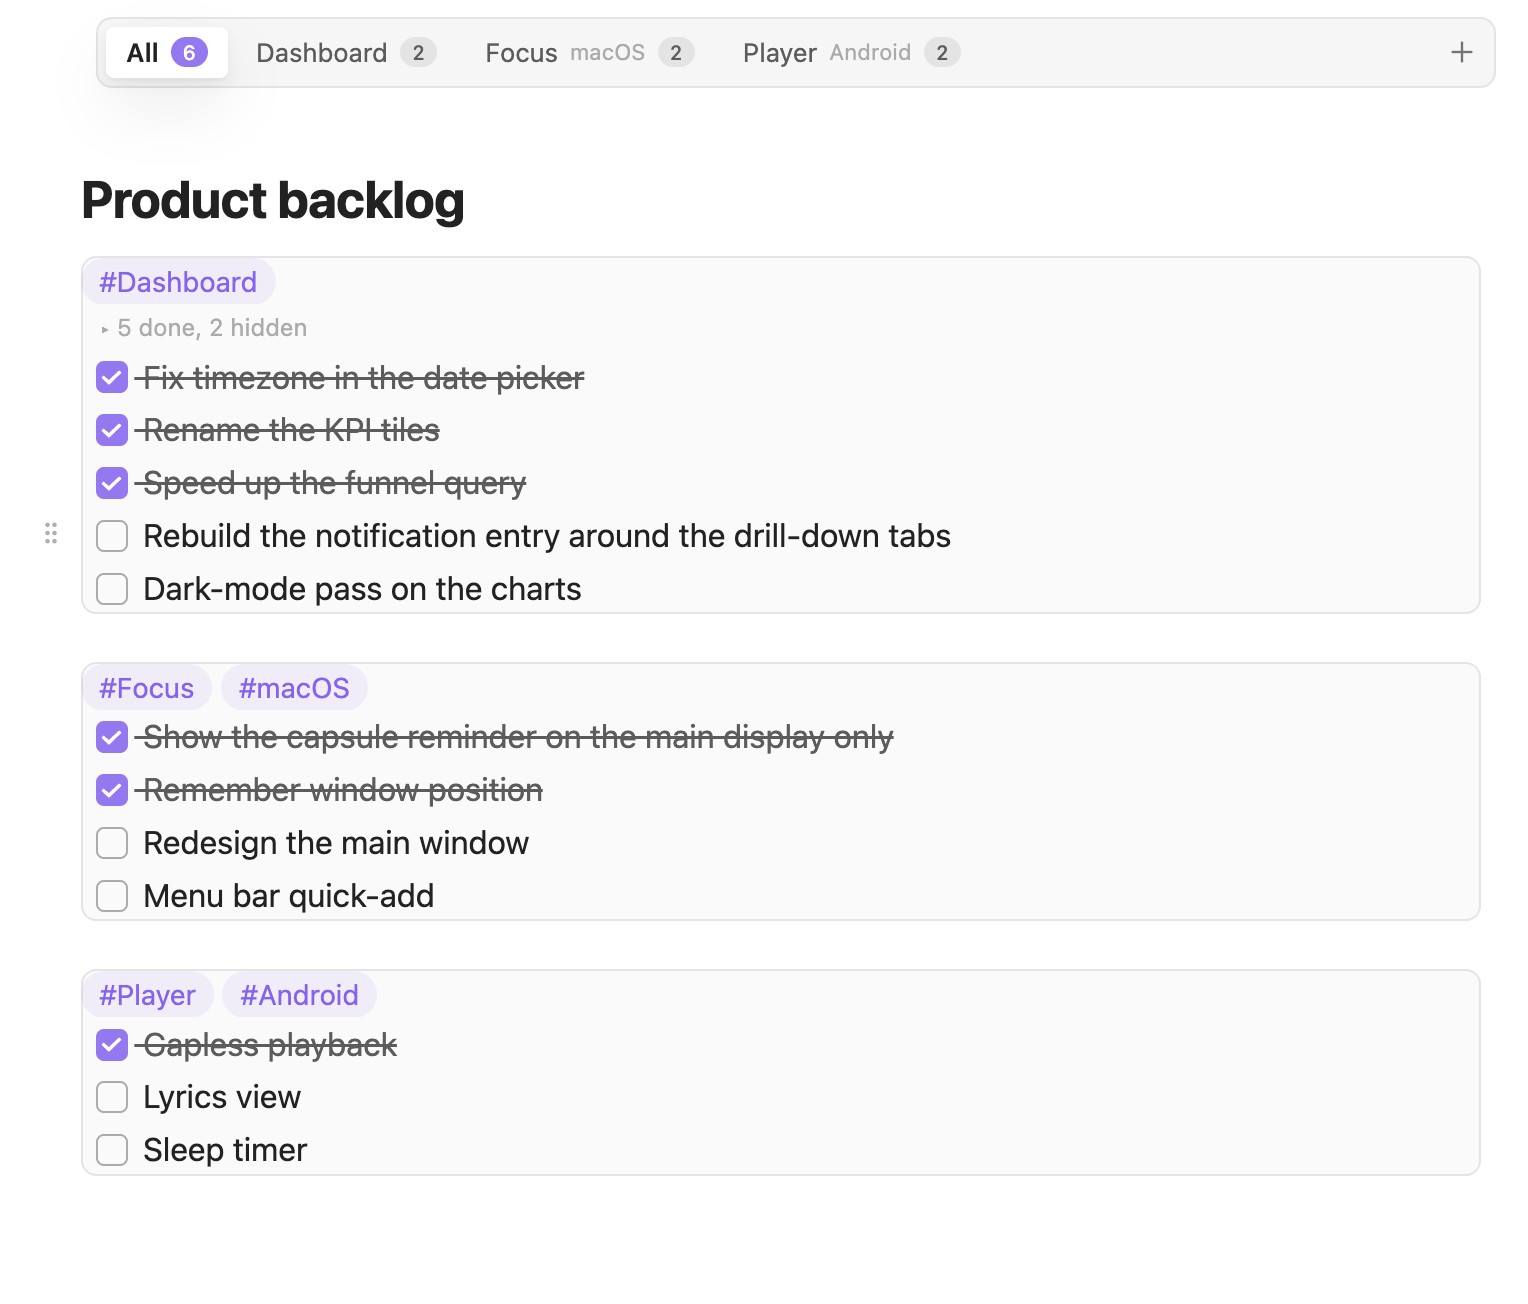
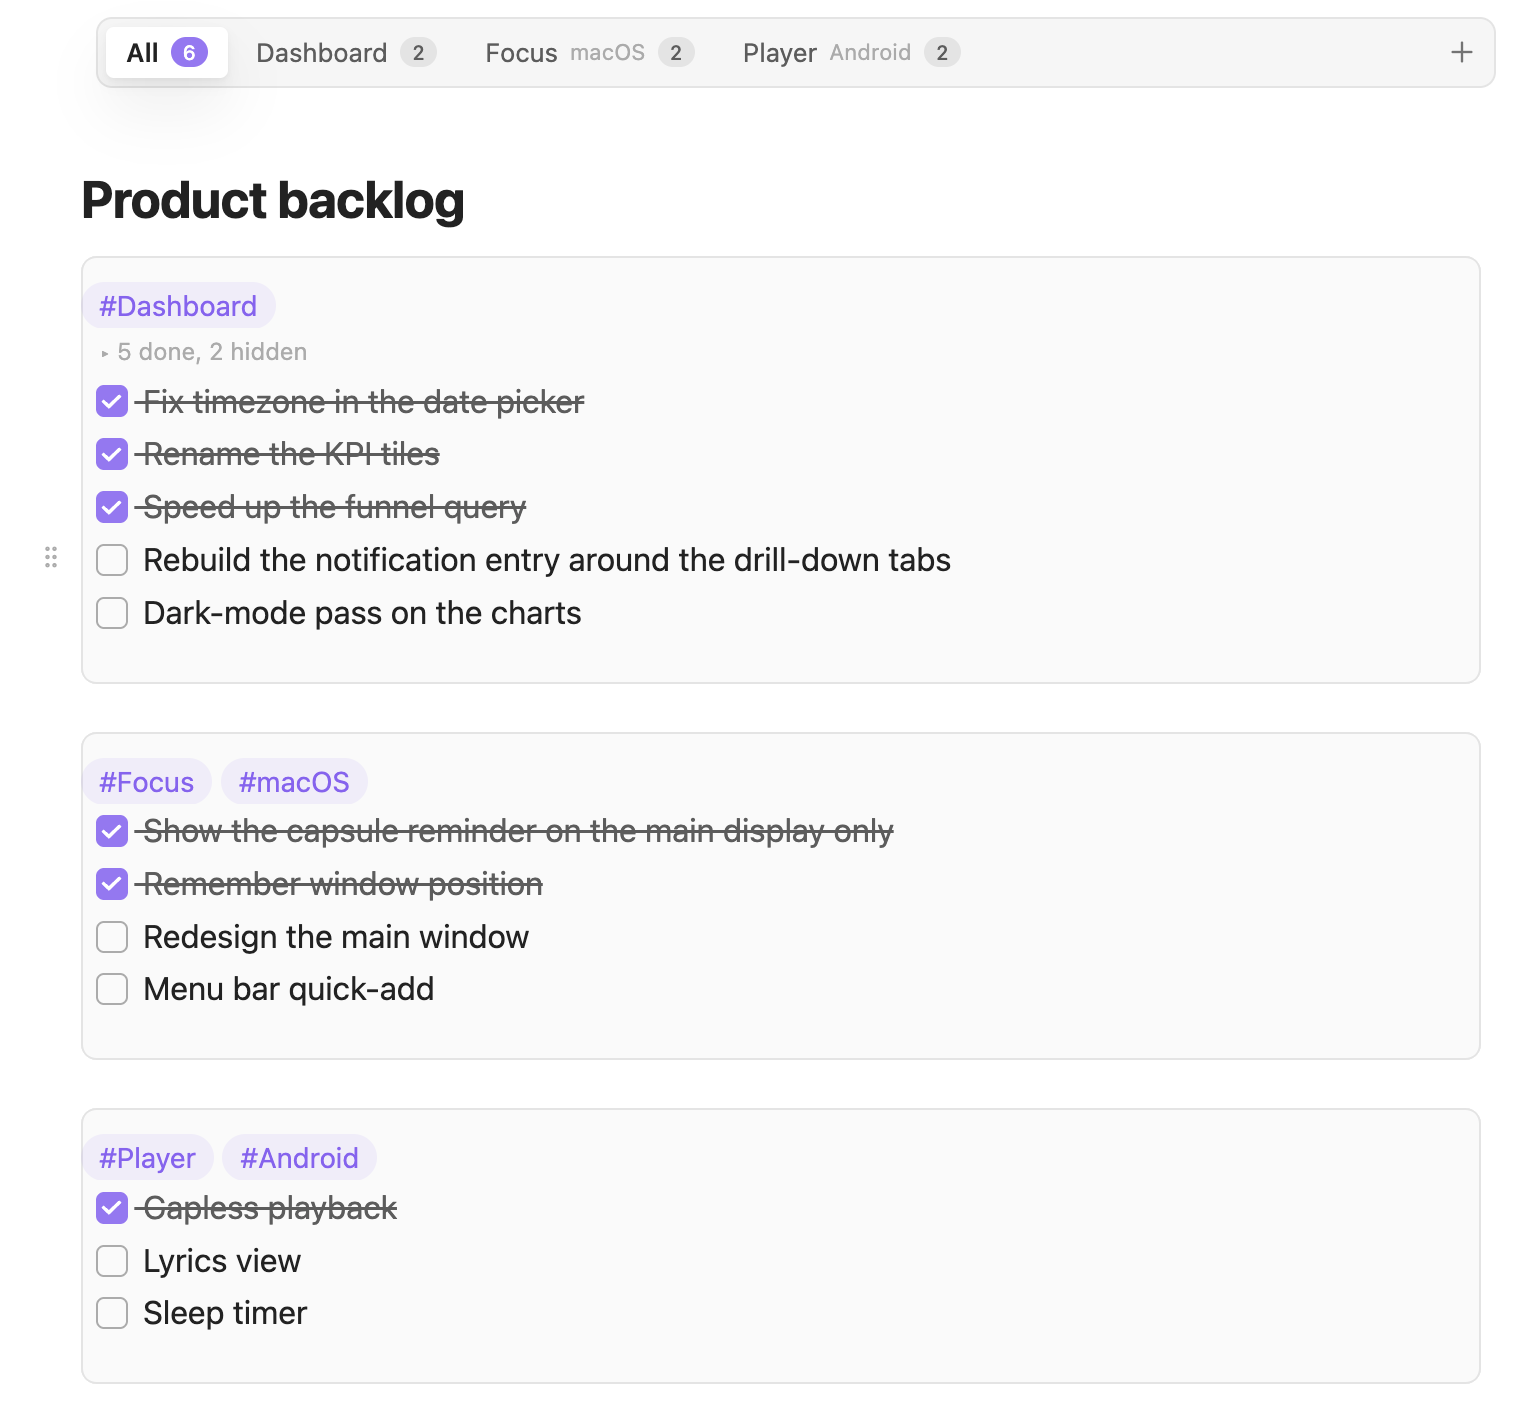
Give section cards room to breathe
The padding never applied: Obsidian pads list lines from
`.mod-cm6 .HyperMD-list-line.cm-line` and every other line from
`.markdown-source-view.mod-cm6 .cm-line`, both of which out-specify a bare
`.cm-line.tp-sec-bottom`, so the last task sat on the card's border.

Out-specify them, and set the padding from two variables shared by both views:
half a line above the tag line, a full line below the last task.

diff --git a/styles.css b/styles.css
@@ -79,6 +79,9 @@ body.tp-tab-dragging, body.tp-tab-dragging * { cursor: grabbing !important; user
    so the surface is drawn per line (editing) or per rendered block (reading): inset shadows give the
    sides without shifting any text, and only the first and last piece round their corners. */
 .tp-sec {
+  /* Breathing room inside a card; the bottom keeps a full line so the last task never sits on the border */
+  --tp-sec-pad-top: 0.75em;
+  --tp-sec-pad-bottom: 1.5em;
   background-color: var(--background-primary-alt);
   box-shadow: inset 1px 0 0 var(--background-modifier-border), inset -1px 0 0 var(--background-modifier-border);
 }
@@ -96,13 +99,15 @@ body.tp-tab-dragging, body.tp-tab-dragging * { cursor: grabbing !important; user
   border-radius: var(--radius-m);
   box-shadow: inset 0 0 0 1px var(--background-modifier-border);
 }
-/* Editing view: pad the card away from its first and last line of text */
-.cm-line.tp-sec-top { padding-top: 6px; }
-.cm-line.tp-sec-bottom { padding-bottom: 6px; }
+/* Editing view: pad the card away from its first and last line of text.
+   Obsidian pads list lines from `.mod-cm6 .HyperMD-list-line.cm-line` and every other line from
+   `.markdown-source-view.mod-cm6 .cm-line`, so this has to out-specify both rather than match them. */
+.markdown-source-view.mod-cm6 .cm-line.tp-sec-top { padding-top: var(--tp-sec-pad-top); }
+.markdown-source-view.mod-cm6 .cm-line.tp-sec-bottom { padding-bottom: var(--tp-sec-pad-bottom); }
 /* Reading view: the blocks of one section must touch, or the note background shows through the card */
 .markdown-preview-view .tp-sec { margin-block: 0; padding-block: 2px; }
-.markdown-preview-view .tp-sec-top { margin-top: 14px; padding-top: 8px; }
-.markdown-preview-view .tp-sec-bottom { margin-bottom: 14px; padding-bottom: 8px; }
+.markdown-preview-view .tp-sec-top { margin-top: 14px; padding-top: var(--tp-sec-pad-top); }
+.markdown-preview-view .tp-sec-bottom { margin-bottom: 14px; padding-bottom: var(--tp-sec-pad-bottom); }
 .markdown-preview-view .tp-sec > :first-child { margin-top: 0; }
 .markdown-preview-view .tp-sec > :last-child { margin-bottom: 0; }
 
@@ -122,7 +127,7 @@ body.tp-tab-dragging, body.tp-tab-dragging * { cursor: grabbing !important; user
 .tp-fold-arrow { display: inline-block; width: 12px; text-align: center; font-size: 0.9em; }
 .cm-content .tp-fold-toggle { padding-inline-start: 6px; }
 .tp-fold-toggle.tp-sec { padding-inline-start: 6px; }
-.tp-fold-toggle.tp-sec-bottom { padding-bottom: 6px; }
+.tp-fold-toggle.tp-sec-bottom { padding-bottom: var(--tp-sec-pad-bottom); }
 .markdown-preview-view li.tp-fold-toggle { list-style: none; margin-inline-start: 0; }
 .markdown-preview-view li.tp-fold-toggle::marker { content: ""; }
 .markdown-preview-view li.tp-fold-toggle::before { display: none; }
